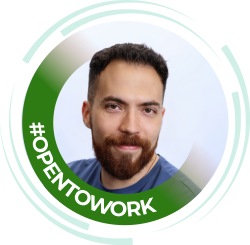
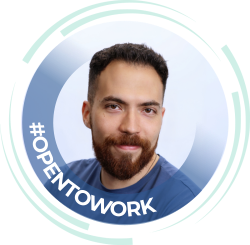
Change about, change image color

Changed region(s): [[0.084, 0.1429, 0.896, 0.9429]]

diff --git a/docs/index.html b/docs/index.html
@@ -86,7 +86,7 @@
           <div class="profile">
             <img src="./assets/img/avatar_opentowork.png" class="", alt="">
           </div>
-          <p>I am a Ph.D student currently based in Bern, Switzerland. In my research, I work with Computer Vision and Natural Language Processing, mainly for the task of Visual Question Answering (VQA) but also for Vision-Language models in general. </p>
+          <p>I am on the verge of completing my Ph.D. journey, backed by publications in top-tier conferences. Possessing extensive knowledge and practical experience in both computer vision and natural language processing, including their intriguing intersection, I am open to finding an interesting and challenging position within the industry.  </p>
         </div>
         </div>
       </div>
